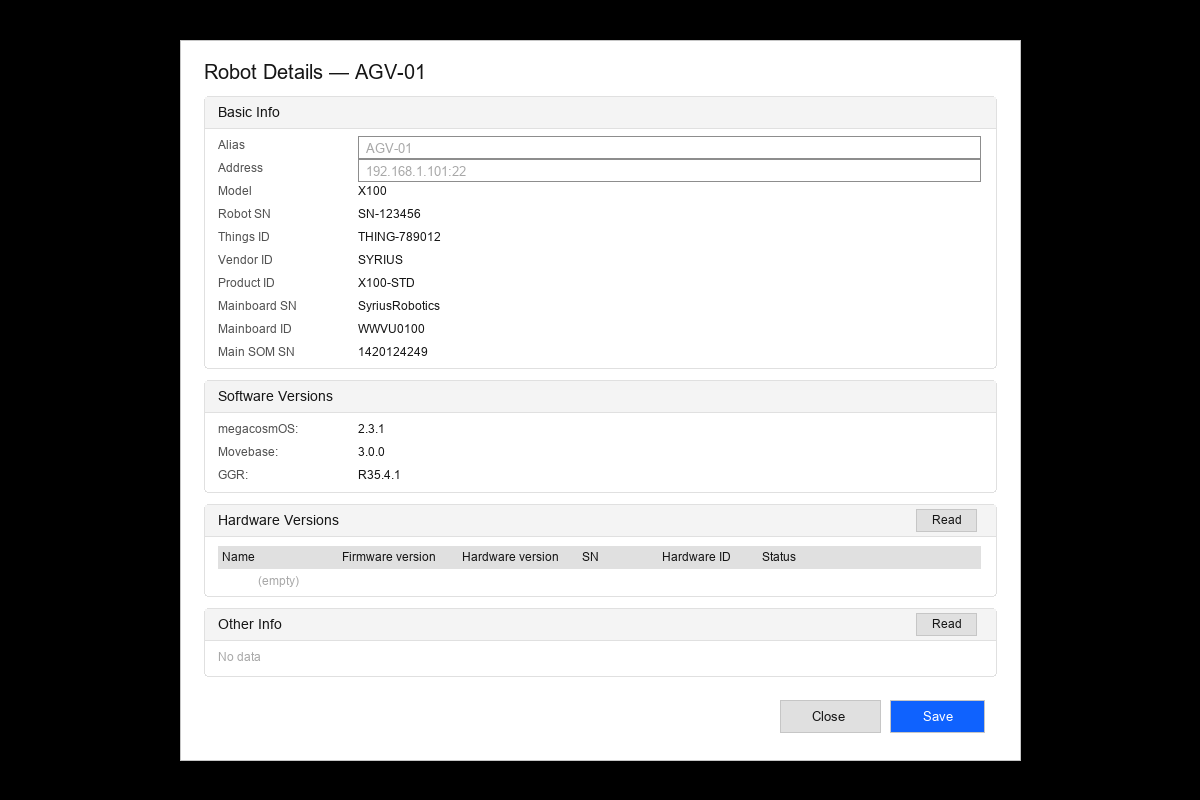
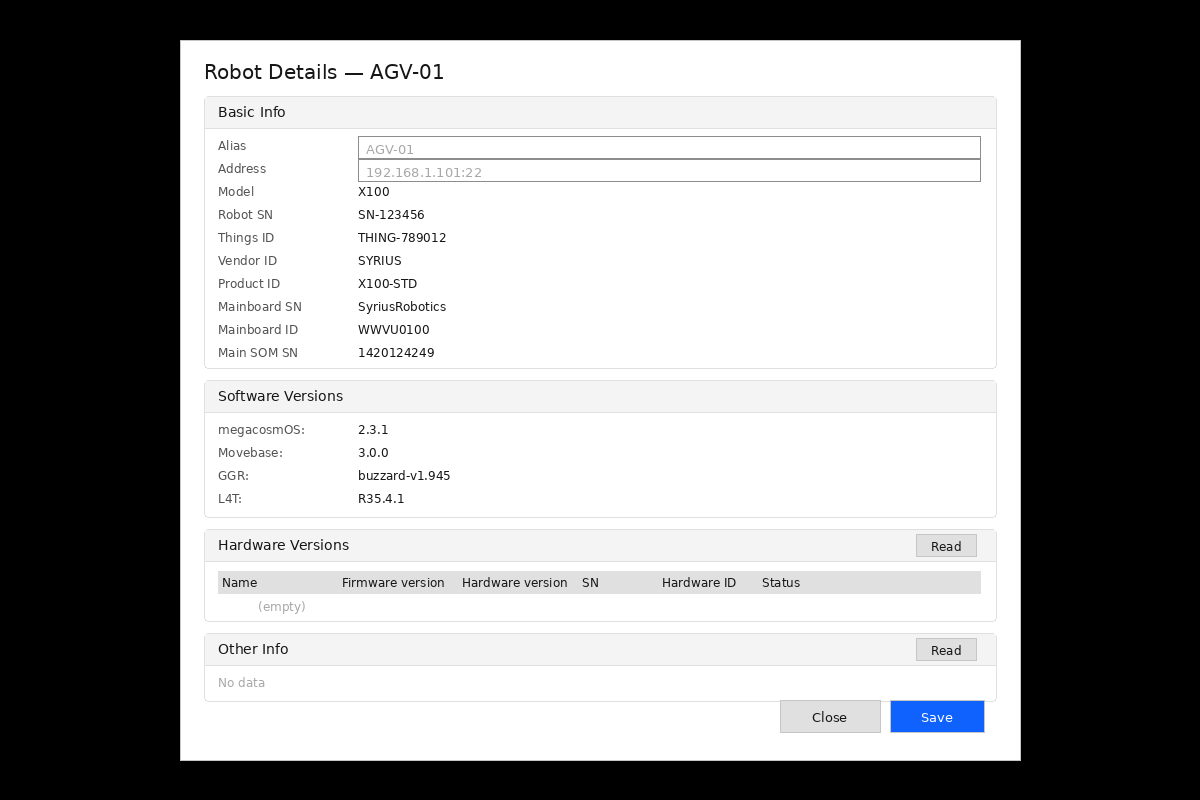
feat: read GGR via adb and show L4T version
- Read GGR version through adb shell dumpsys package com.syriusrobotics.platform.launcher
- Read L4T version from /etc/l4t_jurassic_release with jurassic_release fallback
- Add L4T row to Robot Details Software Versions
- Preserve explicit port when updating a host-only robot address

diff --git a/src/backend/src/test.ts b/src/backend/src/test.ts
@@ -21,7 +21,7 @@ import { MockGetRobotSoftwareInfoTask } from "./tasks/mock/mockGetRobotSoftwareI
 import { UpdateRobotBasicInfoTask } from "./tasks/real/updateRobotBasicInfoTask.js";
 import { UpdateRobotSoftwareInfoTask } from "./tasks/real/updateRobotSoftwareInfoTask.js";
 import type { RobotBasicInfo } from "./tasks/real/getRobotBasicInfoTask.js";
-import type { RobotSoftwareInfo } from "./tasks/real/getRobotSoftwareInfoTask.js";
+import { GetRobotSoftwareInfoTask, type RobotSoftwareInfo } from "./tasks/real/getRobotSoftwareInfoTask.js";
 import { WaitSshConnectedTask } from "./tasks/real/waitSshConnectedTask.js";
 import { WaitSshDisconnectedTask } from "./tasks/real/waitSshDisconnectedTask.js";
 import { WaitSshReconnectTask } from "./tasks/real/waitSshReconnectTask.js";
@@ -3680,6 +3680,28 @@ describe("RobotService - Core", () => {
       assert.equal(updated.port, 22);
     });
 
+    it("TC-ROB-SVC-026: should keep explicit port when updating a host-only address", async () => {
+      const { robotService, solution } = await createSolutionWithService();
+      const created = await robotService.create(solution.id, { address: "10.0.0.1" });
+      const updated = await robotService.update(solution.id, created.id, {
+        address: "10.0.0.2",
+        port: 2222,
+      });
+      assert.equal(updated.address, "10.0.0.2");
+      assert.equal(updated.port, 2222);
+    });
+
+    it("TC-ROB-SVC-027: should prefer the port embedded in the address", async () => {
+      const { robotService, solution } = await createSolutionWithService();
+      const created = await robotService.create(solution.id, { address: "10.0.0.1" });
+      const updated = await robotService.update(solution.id, created.id, {
+        address: "10.0.0.2:2200",
+        port: 2222,
+      });
+      assert.equal(updated.address, "10.0.0.2");
+      assert.equal(updated.port, 2200);
+    });
+
     it("TC-ROB-SVC-019: should update in-memory cache after update", async () => {
       const { robotService, solution } = await createSolutionWithService();
       const created = await robotService.create(solution.id, { address: "10.0.0.1" });
@@ -6535,5 +6557,69 @@ describe("Robot Power Control - Flow Integration", () => {
     } finally {
       testEngine.destroy();
     }
+  });
+});
+
+class TestableGetRobotSoftwareInfoTask extends GetRobotSoftwareInfoTask {
+  public command(): string {
+    return this.getSshCommand({});
+  }
+
+  public parse(output: string): RobotSoftwareInfo {
+    return (this as unknown as { parseSoftwareInfo(o: string): RobotSoftwareInfo }).parseSoftwareInfo(output);
+  }
+}
+
+describe("GetRobotSoftwareInfo task", () => {
+  it("TC-SW-001: should read movebase and minimal system versions from robot files", () => {
+    const task = new TestableGetRobotSoftwareInfoTask();
+    const cmd = task.command();
+
+    assert.ok(cmd.includes("/opt/cosmos/etc/ota/version"));
+    assert.ok(cmd.includes("/mnt/cosmos/boot/etc/ota/minimal_system_version"));
+    assert.ok(cmd.includes("movebaseVersion"));
+    assert.ok(cmd.includes("minimalSystemVersion"));
+  });
+
+  it("TC-SW-002: should read GGR version through adb dumpsys versionName", () => {
+    const task = new TestableGetRobotSoftwareInfoTask();
+    const cmd = task.command();
+
+    assert.ok(cmd.includes("adb shell dumpsys package com.syriusrobotics.platform.launcher"));
+    assert.ok(cmd.includes("grep versionName"));
+    assert.ok(cmd.includes("sed 's/ *versionName=//'"));
+    assert.ok(cmd.includes("ggrVersion"));
+  });
+
+  it("TC-SW-003: should read L4T version with jurassic_release fallback", () => {
+    const task = new TestableGetRobotSoftwareInfoTask();
+    const cmd = task.command();
+
+    assert.ok(cmd.includes("/etc/l4t_jurassic_release"));
+    assert.ok(cmd.includes("/etc/jurassic_release"));
+    assert.ok(cmd.includes("l4tVersion"));
+  });
+
+  it("TC-SW-004: should parse all four software version fields", () => {
+    const task = new TestableGetRobotSoftwareInfoTask();
+
+    const parsed = task.parse(
+      '{"movebaseVersion":"3.0.0","minimalSystemVersion":"1.2.3","ggrVersion":"buzzard-v1.945","l4tVersion":"R35.4.1"}'
+    );
+
+    assert.equal(parsed.movebaseVersion, "3.0.0");
+    assert.equal(parsed.minimalSystemVersion, "1.2.3");
+    assert.equal(parsed.ggrVersion, "buzzard-v1.945");
+    assert.equal(parsed.l4tVersion, "R35.4.1");
+  });
+
+  it("TC-SW-005: MockGetRobotSoftwareInfoTask returns ggr and l4t versions", async () => {
+    const task = new MockGetRobotSoftwareInfoTask();
+    const result = await task.exec({ robotIp: "192.168.1.10" });
+    const softwareInfo = result.softwareInfo as RobotSoftwareInfo;
+
+    assert.equal(result.success, true);
+    assert.equal(softwareInfo.ggrVersion, "buzzard-v1.945");
+    assert.equal(softwareInfo.l4tVersion, "R35.4.1");
   });
 });

diff --git a/src/backend/src/tasks/real/getRobotSoftwareInfoTask.ts b/src/backend/src/tasks/real/getRobotSoftwareInfoTask.ts
@@ -4,16 +4,18 @@ import { SshCommandTask } from "./sshCommandTask.js";
 const SOFTWARE_INFO_COMMAND =
   "MOVEBASE_VER=$(cat /opt/cosmos/etc/ota/version 2>/dev/null | sed '/^[[:space:]]*$/d; s/^[[:space:]]*//; s/[[:space:]]*$//');" +
   "MIN_SYS_VER=$(cat /mnt/cosmos/boot/etc/ota/minimal_system_version 2>/dev/null | sed '/^[[:space:]]*$/d; s/^[[:space:]]*//; s/[[:space:]]*$//');" +
+  "GGR_VER=$(adb shell dumpsys package com.syriusrobotics.platform.launcher 2>/dev/null | grep versionName | head -n 1 | sed 's/ *versionName=//' | tr -d '\\r' | sed '/^[[:space:]]*$/d; s/^[[:space:]]*//; s/[[:space:]]*$//');" +
   "L4T_VER=$( (cat /etc/l4t_jurassic_release 2>/dev/null || cat /etc/jurassic_release 2>/dev/null) | sed '/^[[:space:]]*$/d; s/^[[:space:]]*//; s/[[:space:]]*$//');" +
-  'echo "{\\"movebaseVersion\\":\\"$MOVEBASE_VER\\",\\"minimalSystemVersion\\":\\"$MIN_SYS_VER\\",\\"l4tVersion\\":\\"$L4T_VER\\"}"';
+  'echo "{\\"movebaseVersion\\":\\"$MOVEBASE_VER\\",\\"minimalSystemVersion\\":\\"$MIN_SYS_VER\\",\\"ggrVersion\\":\\"$GGR_VER\\",\\"l4tVersion\\":\\"$L4T_VER\\"}"';
 
 /**
  * Example output from the SSH command:
- * {"movebaseVersion":"3.0.0","minimalSystemVersion":"1.2.3","l4tVersion":"R35.4.1"}
+ * {"movebaseVersion":"3.0.0","minimalSystemVersion":"1.2.3","ggrVersion":"buzzard-v1.945","l4tVersion":"R35.4.1"}
  */
 export interface RobotSoftwareInfo {
   movebaseVersion: string;
   minimalSystemVersion: string;
+  ggrVersion: string;
   l4tVersion: string;
 }
 
@@ -33,7 +35,7 @@ export class GetRobotSoftwareInfoTask extends SshCommandTask {
 
     const softwareInfo = this.parseSoftwareInfo(stdout);
 
-    this.log.info({ movebaseVersion: softwareInfo.movebaseVersion, l4tVersion: softwareInfo.l4tVersion }, "Parsed software info");
+    this.log.info({ movebaseVersion: softwareInfo.movebaseVersion, ggrVersion: softwareInfo.ggrVersion, l4tVersion: softwareInfo.l4tVersion }, "Parsed software info");
 
     return {
       success: true,

diff --git a/src/frontend/src/types/robot.ts b/src/frontend/src/types/robot.ts
@@ -31,6 +31,7 @@ export interface RobotDefinition extends StoredRobotData {
   megaCosmOSVersion: string;
   movebaseVersion: string;
   ggrVersion: string;
+  l4tVersion: string;
   mcuFirmwareVersions: Record<string, string>;
   actuatorFirmwareVersions: Record<string, string>;
   sensorFirmwareVersions: Record<string, string>;
@@ -60,6 +61,7 @@ export interface RobotBasicInfoResponse {
 export interface RobotSoftwareInfoResponse {
   movebaseVersion: string;
   minimalSystemVersion: string;
+  ggrVersion: string;
   l4tVersion: string;
 }
 
@@ -132,6 +134,7 @@ export function enrichRobot(stored: StoredRobotData): RobotDefinition {
     megaCosmOSVersion: PLACEHOLDER,
     movebaseVersion: PLACEHOLDER,
     ggrVersion: PLACEHOLDER,
+    l4tVersion: PLACEHOLDER,
     mcuFirmwareVersions: EMPTY_VERSION_MAP,
     actuatorFirmwareVersions: EMPTY_VERSION_MAP,
     sensorFirmwareVersions: EMPTY_VERSION_MAP,
@@ -157,7 +160,8 @@ export function enrichRobotFromBackend(robot: RobotWithBasicInfoResponse): Robot
     mainSOMSN: robot.basicInfo?.mainSomSn ?? PLACEHOLDER,
     movebaseVersion: robot.softwareInfo?.movebaseVersion ?? PLACEHOLDER,
     megaCosmOSVersion: robot.softwareInfo?.minimalSystemVersion ?? PLACEHOLDER,
-    ggrVersion: robot.softwareInfo?.l4tVersion ?? PLACEHOLDER,
+    ggrVersion: robot.softwareInfo?.ggrVersion ?? PLACEHOLDER,
+    l4tVersion: robot.softwareInfo?.l4tVersion ?? PLACEHOLDER,
     mcuFirmwareVersions: EMPTY_VERSION_MAP,
     actuatorFirmwareVersions: EMPTY_VERSION_MAP,
     sensorFirmwareVersions: EMPTY_VERSION_MAP,

diff --git a/src/frontend/src/components/robots/RobotDetailModal.tsx b/src/frontend/src/components/robots/RobotDetailModal.tsx
@@ -202,6 +202,7 @@ export default function RobotDetailModal({ open, robot, onClose, onSave }: Robot
             <TextInput id="sw-megacosmos" labelText="megacosmOS" value={formatInfoValue(robot.megaCosmOSVersion)} readOnly />
             <TextInput id="sw-movebase" labelText="Movebase" value={formatInfoValue(robot.movebaseVersion)} readOnly />
             <TextInput id="sw-ggr" labelText="GGR" value={formatInfoValue(robot.ggrVersion)} readOnly />
+            <TextInput id="sw-l4t" labelText="L4T" value={formatInfoValue(robot.l4tVersion)} readOnly />
           </div>
         </section>
 

diff --git a/src/frontend/src/hooks/useRobots.ts b/src/frontend/src/hooks/useRobots.ts
@@ -69,7 +69,8 @@ export function useRobots(solutionId: string | null) {
               ...r,
               movebaseVersion: updatedSoftwareInfo.movebaseVersion ?? r.movebaseVersion,
               megaCosmOSVersion: updatedSoftwareInfo.minimalSystemVersion ?? r.megaCosmOSVersion,
-              ggrVersion: updatedSoftwareInfo.l4tVersion ?? r.ggrVersion,
+              ggrVersion: updatedSoftwareInfo.ggrVersion ?? r.ggrVersion,
+              l4tVersion: updatedSoftwareInfo.l4tVersion ?? r.l4tVersion,
             };
           })
         );

diff --git a/src/backend/src/services/robotService.ts b/src/backend/src/services/robotService.ts
@@ -476,7 +476,12 @@ export class RobotService {
     }
 
     if (patch.address !== undefined) {
-      const parsed = parseAddressInput(patch.address);
+      const hasExplicitPort = patch.address.lastIndexOf(":") > 0;
+      const addressInput =
+        !hasExplicitPort && patch.port !== undefined
+          ? `${patch.address}:${patch.port}`
+          : patch.address;
+      const parsed = parseAddressInput(addressInput);
       if (!parsed) {
         throw new InvalidRobotAddressError();
       }

diff --git a/src/backend/src/tasks/mock/mockGetRobotSoftwareInfoTask.ts b/src/backend/src/tasks/mock/mockGetRobotSoftwareInfoTask.ts
@@ -4,6 +4,7 @@ import { GetRobotSoftwareInfoTask, type RobotSoftwareInfo } from "../real/getRob
 const MOCK_SOFTWARE_INFO: RobotSoftwareInfo = {
   movebaseVersion: "3.0.0",
   minimalSystemVersion: "1.2.3",
+  ggrVersion: "buzzard-v1.945",
   l4tVersion: "R35.4.1",
 };
 

diff --git a/tools/generate_ui_sketches.py b/tools/generate_ui_sketches.py
@@ -403,11 +403,11 @@ def page_robot_detail_modal():
     # Section 2: Software Versions
     def draw_software_versions(bx, by):
         y = by
-        for name, ver in [("megacosmOS", "2.3.1"), ("Movebase", "3.0.0"), ("GGR", "R35.4.1")]:
+        for name, ver in [("megacosmOS", "2.3.1"), ("Movebase", "3.0.0"), ("GGR", "buzzard-v1.945"), ("L4T", "R35.4.1")]:
             draw.text((bx, y), name + ":", fill="#525252", font=FONT_SM)
             draw.text((bx + 140, y), ver, fill="#161616", font=FONT_SM)
             y += 23
-    draw_section_card("Software Versions", 80, draw_body_fn=draw_software_versions)
+    draw_section_card("Software Versions", 105, draw_body_fn=draw_software_versions)
 
     # Section 3: Hardware Versions
     def draw_hardware_versions(bx, by):

diff --git a/documents/design/solution_management_design.md b/documents/design/solution_management_design.md
@@ -173,6 +173,8 @@ function buildRobotInfoKey(solutionId: string, robotId: string): string;
 
 `POST .../power` 请求体为 `{ "action": "shutdown" | "reboot" }`（其他取值返回 `400 INVALID_INPUT`）。该接口为**即时动作**，不创建 flow：路由委托 `RobotPowerService` 解析机器人存储地址后直接执行 `RobotPowerTask`，成功返回 `{ ok: true, robotId, action }`。由于 `RobotPowerTask` 对任何失败（机器人不可达、SSH 连接中断、命令返回非 0 退出码）均忽略并返回成功，电源动作本身不会产生错误响应；仅在请求层面出错时（如机器人记录不存在返回 `ROBOT_NOT_FOUND`，或其余异常返回 `502 POWER_ACTION_FAILED`）才返回错误。
 
+`PUT .../robots/:robotId` 的地址更新语义：若 `address` 不含端口且同时提供 `port`，使用显式 `port`；若 `address` 内已包含端口，则以 `address` 中的端口为准。
+
 ### 3.5 MemStore 服务接口（MemStore）
 
 后端内置 mem_store 模块，提供带 TTL 的内存键值缓存、定时刷新、SSE 实时推送能力。机器人动态信息通过 mem_store 进行缓存管理。
@@ -375,6 +377,7 @@ interface RobotDefinition extends StoredRobotData {
   megaCosmOSVersion: string;
   movebaseVersion: string;
   ggrVersion: string;
+  l4tVersion: string;
   mcuFirmwareVersions: Record<string, string>;
   actuatorFirmwareVersions: Record<string, string>;
   sensorFirmwareVersions: Record<string, string>;
@@ -1007,7 +1010,7 @@ v1/solutions/{solutionId}/{feature-namespace}/{resourceId}
 - **Tabs**:
   - **Basic Info**: `alias` (editable), `address` (editable, format `<host>:<port>`, port optional defaults to 22), `model` (read-only), `robotSN` (read-only), `thingsId` (read-only), `vendorId` (read-only), `productId` (read-only), `mainboardSN` (read-only), `mainboardId` (read-only), `mainSOMSN` (read-only).
   - **Other Info**: `hardwareDeviceTree` as `DataTable` (columns: name, firmwareVersion, hardwareVersion, serialNumber, hardwareId, online).
-  - **Software Versions**: `megaCosmOSVersion`, `movebaseVersion`, `ggrVersion` as read-only form fields; MCU / actuator / sensor firmware versions as key-value lists.
+  - **Software Versions**: `megaCosmOSVersion`, `movebaseVersion`, `ggrVersion`, `l4tVersion` as read-only form fields; MCU / actuator / sensor firmware versions as key-value lists.
   - **Hardware Versions**: `mainControlHardwareVersion`, MCU / actuator / sensor hardware versions as key-value lists.
 - **Actions**: Bottom "Save" primary button (saves alias/address changes; address is parsed from `<host>:<port>` format into separate `address` and `port` fields), "Close" secondary button.
 

diff --git a/documents/design/backend_task_design.md b/documents/design/backend_task_design.md
@@ -228,7 +228,7 @@ Writes robot basic info into the in-memory LRU cache (`MemStore`). No SSH or net
 
 ### Overview
 
-Reads robot software version information from `/opt/cosmos/etc/ota/version`, `/mnt/cosmos/boot/etc/ota/minimal_system_version`, and `/etc/l4t_jurassic_release` via a shell script, parses the JSON output, and returns a structured `RobotSoftwareInfo` object.
+Reads robot software version information from `/opt/cosmos/etc/ota/version`, `/mnt/cosmos/boot/etc/ota/minimal_system_version`, the GGR package via `adb shell dumpsys package com.syriusrobotics.platform.launcher`, and `/etc/l4t_jurassic_release` (falling back to `/etc/jurassic_release`) via a shell script, parses the JSON output, and returns a structured `RobotSoftwareInfo` object.
 
 ### Input Parameters
 
@@ -245,11 +245,13 @@ No additional parameters (command is hardcoded).
 | `softwareInfo` | `RobotSoftwareInfo` | Parsed software info object |
 | `softwareInfo.movebaseVersion` | `string` | Movebase version from `/opt/cosmos/etc/ota/version` |
 | `softwareInfo.minimalSystemVersion` | `string` | Minimal system version from `/mnt/cosmos/boot/etc/ota/minimal_system_version` |
-| `softwareInfo.l4tVersion` | `string` | L4T release version from `/etc/l4t_jurassic_release` |
+| `softwareInfo.ggrVersion` | `string` | GGR version from `adb shell dumpsys package com.syriusrobotics.platform.launcher` (first `versionName`) |
+| `softwareInfo.l4tVersion` | `string` | L4T release version from `/etc/l4t_jurassic_release` (fallback `/etc/jurassic_release`) |
 
 ### Notes
 
-- Executes a multi-command shell script that reads from `cat` on three separate files
+- Executes a multi-command shell script that reads the version files with `cat` and queries the GGR Android package through `adb shell dumpsys`
+- GGR version uses `grep versionName` and strips the `versionName=` prefix, keeping only the first match
 - The robotService DAG chains this task after `GetRobotBasicInfoTask` (requires `robotInfo` for sequential execution)
 - Expects a JSON line in stdout; parses the first JSON line found
 

diff --git a/documents/test/solution_management_test_cases.md b/documents/test/solution_management_test_cases.md
@@ -345,7 +345,7 @@
 | TC-SOL-SVC-022 | Clone a solution | New ID, correct name and version |
 | TC-SOL-SVC-023 | Throw when cloning non-existent solution | Throws `SOLUTION_NOT_FOUND` |
 
-### TC-ROB-SVC-001 ~ TC-ROB-SVC-025: RobotService Core Tests
+### TC-ROB-SVC-001 ~ TC-ROB-SVC-027: RobotService Core Tests
 
 | Test Case | Description | Key Assertion |
 |-----------|-------------|---------------|
@@ -374,3 +374,15 @@
 | TC-ROB-SVC-023 | Update in-memory cache after remove | List returns correct count |
 | TC-ROB-SVC-024 | Throw when removing non-existent robot | Throws `ROBOT_NOT_FOUND` |
 | TC-ROB-SVC-025 | Clear cached robots for a solution | Cache is invalidated and reloaded |
+| TC-ROB-SVC-026 | Update host-only address with explicit port | Explicit `port` is preserved instead of defaulting to 22 |
+| TC-ROB-SVC-027 | Update address that already embeds a port | Port embedded in `address` takes precedence over patch `port` |
+
+### TC-SW-001 ~ TC-SW-005: GetRobotSoftwareInfoTask Tests
+
+| Test Case | Description | Key Assertion |
+|-----------|-------------|---------------|
+| TC-SW-001 | Read Movebase and minimal system versions from robot files | Command contains `/opt/cosmos/etc/ota/version` and `/mnt/cosmos/boot/etc/ota/minimal_system_version` |
+| TC-SW-002 | Read GGR version through adb dumpsys | Command contains `adb shell dumpsys package com.syriusrobotics.platform.launcher`, `grep versionName`, `sed 's/ *versionName=//'`, and outputs `ggrVersion` |
+| TC-SW-003 | Read L4T version with fallback | Command contains `/etc/l4t_jurassic_release` and `/etc/jurassic_release`, and outputs `l4tVersion` |
+| TC-SW-004 | Parse all four software version fields | Parsed object contains movebase, minimal system, GGR, and L4T versions |
+| TC-SW-005 | Mock task returns GGR and L4T versions | Mock returns `ggrVersion` and `l4tVersion` |

diff --git a/documents/requirements/solution_management_requirements.md b/documents/requirements/solution_management_requirements.md
@@ -217,7 +217,7 @@ TaskFlowEngine 持久化的 `user` 类型任务（Flow）数据 Schema：
 
 - `model`、`robotSN`、`thingsId`、`vendorId`、`productId`
 - `mainboardSN`、`mainboardId`、`mainSOMSN`
-- `megaCosmOSVersion`、`movebaseVersion`、`ggrVersion`
+- `megaCosmOSVersion`、`movebaseVersion`、`ggrVersion`、`l4tVersion`
 - `mcuFirmwareVersions`、`actuatorFirmwareVersions`、`sensorFirmwareVersions`
 - `mainControlHardwareVersion`、`mcuHardwareVersions`、`actuatorHardwareVersions`、`sensorHardwareVersions`
 - `hardwareDeviceTree`
@@ -558,7 +558,7 @@ TaskFlowEngine 持久化的 `user` 类型任务（Flow）数据 Schema：
 - 对话框分区域展示：
   - **基础信息**：`alias`（可编辑）、`address`（可编辑，格式为 `<host>:<port>`，port 可选，默认 22）、`model`（只读）、`robotSN`（只读）、`thingsId`（只读）、`vendorId`（只读）、`productId`（只读）、`mainboardSN`（只读）、`mainboardId`（只读）、`mainSOMSN`（只读）。
   - **其他信息**：`hardwareDeviceTree`（硬件设备树表格）。
-  - **软件版本信息**：`megaCosmOSVersion`、`movebaseVersion`、`ggrVersion`、`mcuFirmwareVersions`、`actuatorFirmwareVersions`、`sensorFirmwareVersions`（均为只读）。
+  - **软件版本信息**：`megaCosmOSVersion`、`movebaseVersion`、`ggrVersion`、`l4tVersion`、`mcuFirmwareVersions`、`actuatorFirmwareVersions`、`sensorFirmwareVersions`（均为只读）。
   - **硬件版本信息**：`mainControlHardwareVersion`、`mcuHardwareVersions`、`actuatorHardwareVersions`、`sensorHardwareVersions`（均为只读）。
 - 对话框提供"保存"按钮，保存 `alias` 和 `address` 的修改（address 中包含端口信息）。
 - 对话框提供"关闭"按钮。
